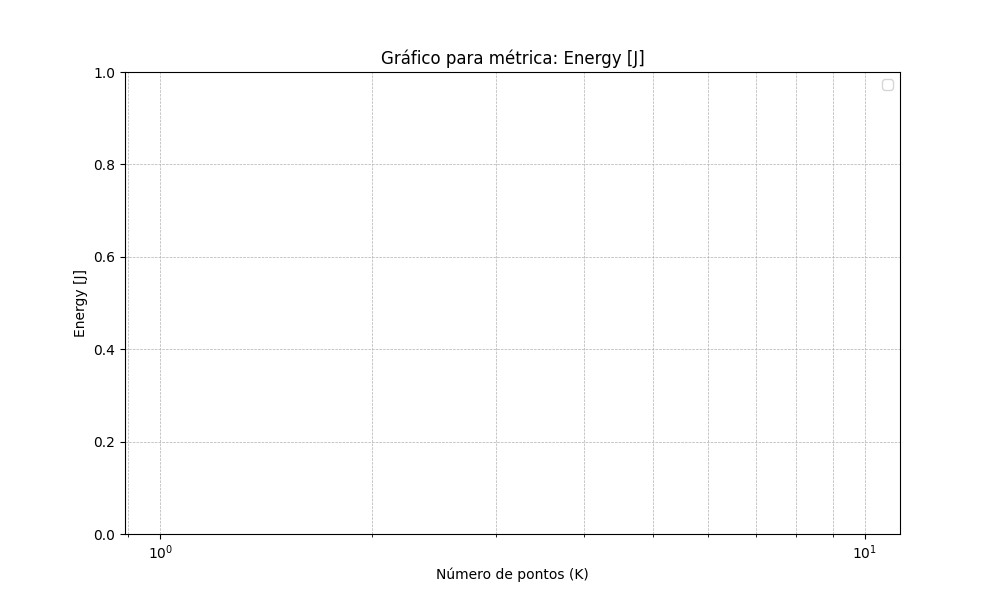
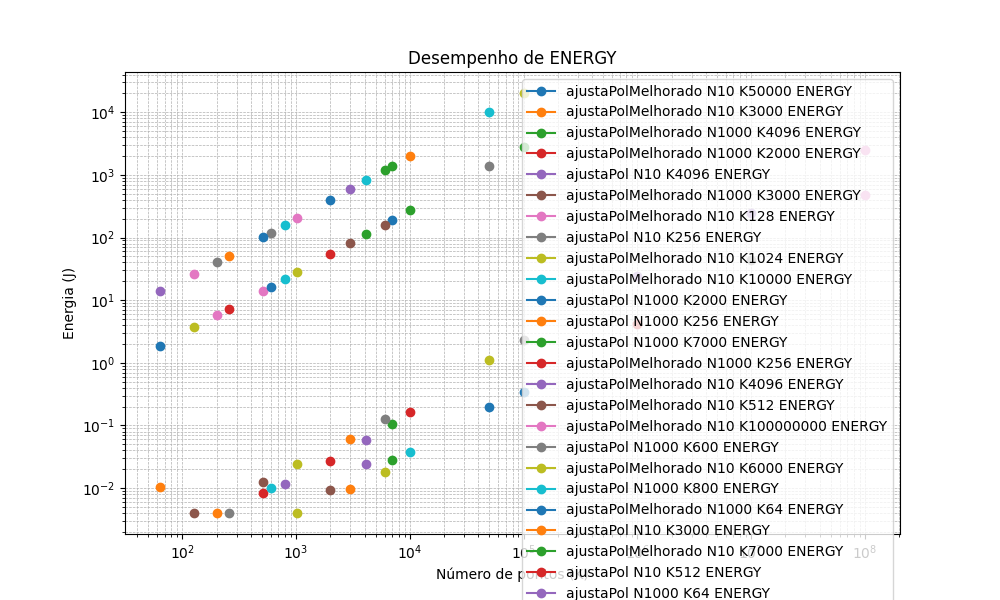
naofnao

Changed region(s): [[0.062, 0.06, 0.899, 1.0], [0.403, 0.9, 0.434, 0.93]]

diff --git a/graphs.py b/graphs.py
@@ -1,72 +1,72 @@
 import os
 import matplotlib.pyplot as plt
-import numpy as np
+import re
 
 # Diretório contendo os arquivos
 resultados_dir = "resultados_likwid"
 
-# Métricas a serem extraídas
-metrics = [
-    ("L3CACHE", "L3 miss ratio", "l3cache_miss_ratio.png", "L3 miss ratio"),
-    ("ENERGY", "Energy [J]", "energia.png", "Energy [J]"),
-    ("FLOPS_DP", "DP MFLOP/s", "flops_dp.png", "DP MFLOP/s"),
-]
+# Função para carregar métricas usando regex
+def load_metrics(input_dir, metric_name, metric_key):
+    data = {}
+    for file in os.listdir(input_dir):
+        if metric_name in file:
+            # Extrair informações do nome do arquivo
+            match_k = re.search(r'_K(\d+)_', file)
+            if not match_k:
+                continue
+            K = int(match_k.group(1))
 
-# Função para extrair valores de um arquivo
-def extract_metric(file_path, metric_name, metric_key):
-    k_values = []
-    metric_values = []
-    with open(file_path, 'r') as file:
-        lines = file.readlines()
-        current_k = None
-        
-        for line in lines:
-            # Procurar o valor de K no início do arquivo
-            if line.strip().isdigit():
-                current_k = int(line.strip())
-            
-            # Localizar a tabela de métricas
-            if metric_name in line and "Group 1 Metric" in line:
-                for metric_line in lines[lines.index(line):]:
-                    if metric_key in metric_line:
-                        # Tentar extrair o valor da métrica
-                        try:
-                            value = float(metric_line.split(',')[-1].strip())
-                            if current_k is not None:
-                                k_values.append(current_k)
-                                metric_values.append(value)
-                        except ValueError:
-                            print(f"Valor inválido no arquivo {file_path}, linha: {metric_line}")
-                        break
-    return k_values, metric_values
+            # Abrir e ler o conteúdo do arquivo
+            with open(os.path.join(input_dir, file), "r") as f:
+                content = f.read()
 
-# Processar os arquivos e gerar gráficos
-for metric, ylabel, output_file, metric_key in metrics:
+                # Buscar a métrica desejada no conteúdo
+                metric_regex = {
+                    "L3CACHE": r"L3 miss ratio[:,\s]+([\d.]+)",
+                    "ENERGY": r"Energy \[J\][:,\s]+([\d.]+)",
+                    "FLOPS_DP": r"DP MFLOP/s[:,\s]+([\d.]+)",
+                    "FLOPS_AVX_DP": r"AVX DP MFLOP/s[:,\s]+([\d.]+)",
+                }
+
+                match = re.search(metric_regex.get(metric_name, ""), content)
+                if match:
+                    value = float(match.group(1))
+                    label = file.replace(".txt", "").replace("_", " ")
+                    if label not in data:
+                        data[label] = {"K": [], "value": []}
+                    data[label]["K"].append(K)
+                    data[label]["value"].append(value)
+    return data
+
+# Função para plotar os gráficos
+def plot_results(data, metric, ylabel, output_file):
     plt.figure(figsize=(10, 6))
-    
-    for root, _, files in os.walk(resultados_dir):
-        for file in files:
-            if metric in file:
-                # Identificar a combinação (N1/N2 e V1/V2) pelo nome do arquivo
-                label = file.replace(".txt", "").replace("_", " ")
-                file_path = os.path.join(root, file)
-                
-                # Extrair os dados
-                k_values, metric_values = extract_metric(file_path, metric, metric_key)
-                
-                # Plotar os dados
-                if k_values and metric_values:
-                    plt.plot(k_values, metric_values, label=label)
-    
-    # Configurar o gráfico
-    plt.xscale('log')
-    plt.xlabel('Número de pontos (K)')
+
+    for label, results in data.items():
+        plt.plot(results["K"], results["value"], label=label, marker="o")
+
+    plt.xscale("log")
+    plt.yscale("log")
+    plt.xlabel("Número de pontos (K)")
     plt.ylabel(ylabel)
-    plt.title(f'Gráfico para métrica: {ylabel}')
+    plt.title(f"Desempenho de {metric}")
     plt.legend()
     plt.grid(True, which="both", linestyle="--", linewidth=0.5)
-    
-    # Salvar o gráfico
     plt.savefig(output_file)
     plt.close()
+
+# Processar os arquivos e gerar gráficos
+if __name__ == "__main__":
+    metrics = [
+        ("L3CACHE", "Cache miss ratio", "l3cache_miss_ratio.png"),
+        ("ENERGY", "Energia (J)", "energia.png"),
+        ("FLOPS_DP", "FLOPS DP (MFLOP/s)", "flops_dp.png"),
+        ("FLOPS_AVX_DP", "FLOPS AVX DP (MFLOP/s)", "flops_avx_dp.png"),
+    ]
+
+    for metric_name, ylabel, output_file in metrics:
+        data = load_metrics(resultados_dir, metric_name, ylabel)
+        plot_results(data, metric_name, ylabel, output_file)
+
+    print("Gráficos gerados com sucesso!")
 
